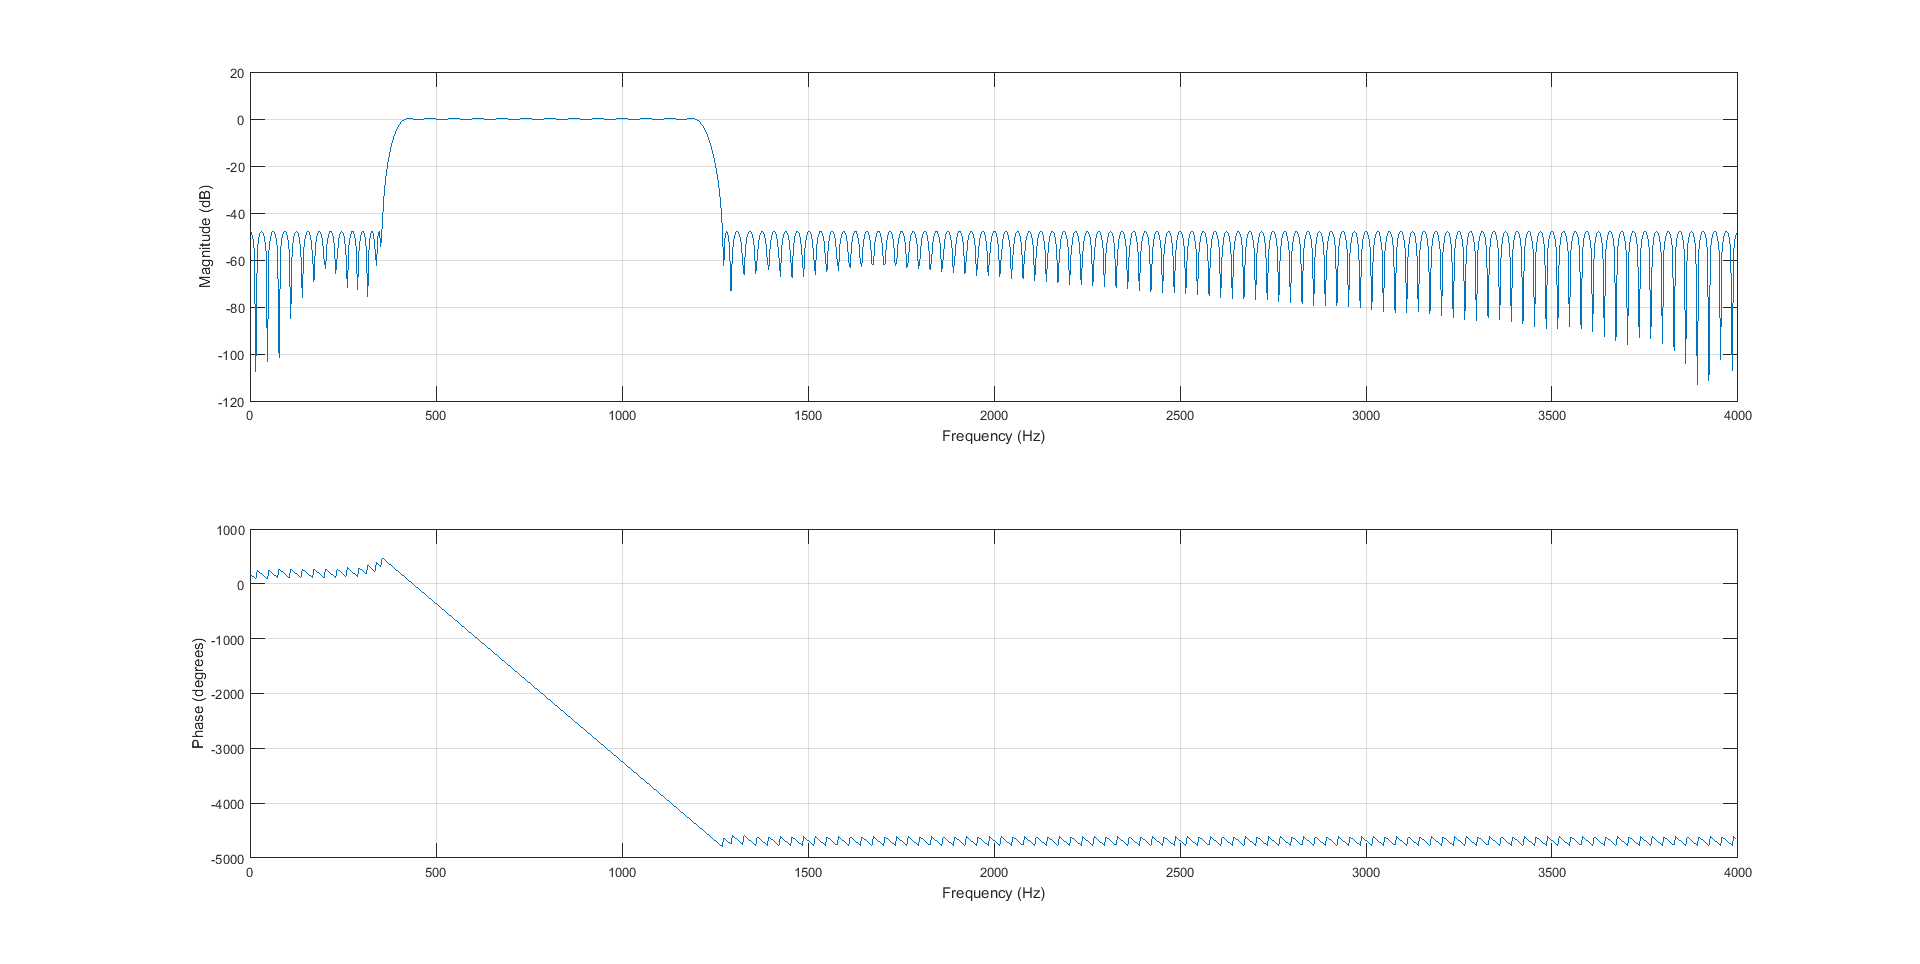
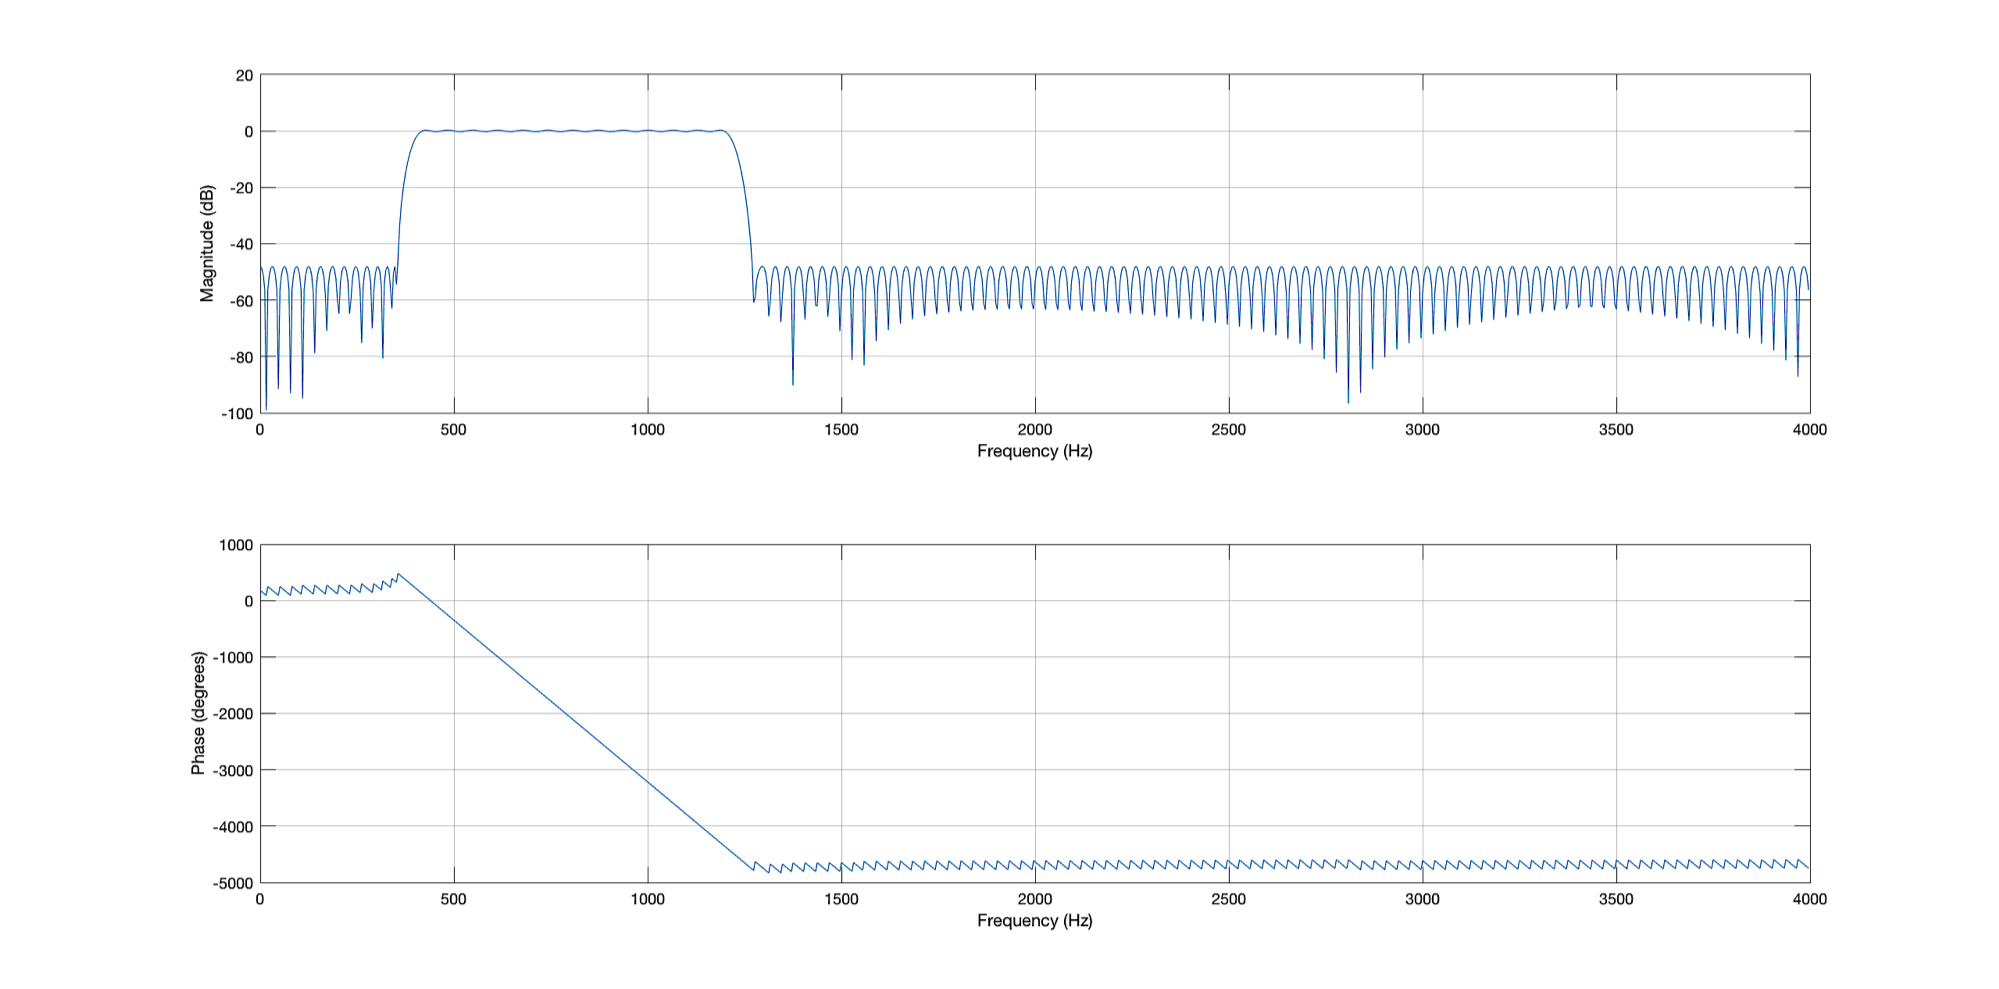
[merging] Added images

diff --git a/lab4/RTDSP/Matlab/m_filter_256.m b/lab4/RTDSP/Matlab/m_filter_256.m
@@ -2,8 +2,8 @@ function Hd = m_filter_256
 %M_FILTER_256 Returns a discrete-time filter object.
 
 % MATLAB Code
-% Generated by MATLAB(R) 9.2 and the Signal Processing Toolbox 7.4.
-% Generated on: 20-Feb-2018 17:49:25
+% Generated by MATLAB(R) 9.0 and the Signal Processing Toolbox 7.2.
+% Generated on: 22-Feb-2018 12:05:24
 
 % Equiripple Bandpass filter designed using the FIRPM function.
 
@@ -16,13 +16,12 @@ Fpass1 = 415;   % First Passband Frequency
 Fpass2 = 1200;  % Second Passband Frequency
 Fstop2 = 1270;  % Second Stopband Frequency
 Wstop1 = 10;    % First Stopband Weight
-Wpass  = 1.5;   % Passband Weight
+Wpass  = 1.38;  % Passband Weight
 Wstop2 = 10;    % Second Stopband Weight
 dens   = 20;    % Density Factor
 
 % Calculate the coefficients using the FIRPM function.
-b  = firpm(N, [0 Fstop1 Fpass1 Fpass2 Fstop2 Fs/2]/(Fs/2), [0 0 1 1 0 ...
+Hd  = firpm(N, [0 Fstop1 Fpass1 Fpass2 Fstop2 Fs/2]/(Fs/2), [0 0 1 1 0 ...
            0], [Wstop1 Wpass Wstop2], {dens});
-Hd = b;
 
 % [EOF]

diff --git a/lab4/RTDSP/Matlab/gen_filter.m b/lab4/RTDSP/Matlab/gen_filter.m
@@ -2,4 +2,4 @@ Fs = 8000;
 b = m_filter_256;
 freqz(b, 1, 1024, Fs);
 
-save filter_coeff_256.txt b -ASCII -DOUBLE -TABS
+%save filter_coeff_256.txt b -ASCII -DOUBLE -TABS
